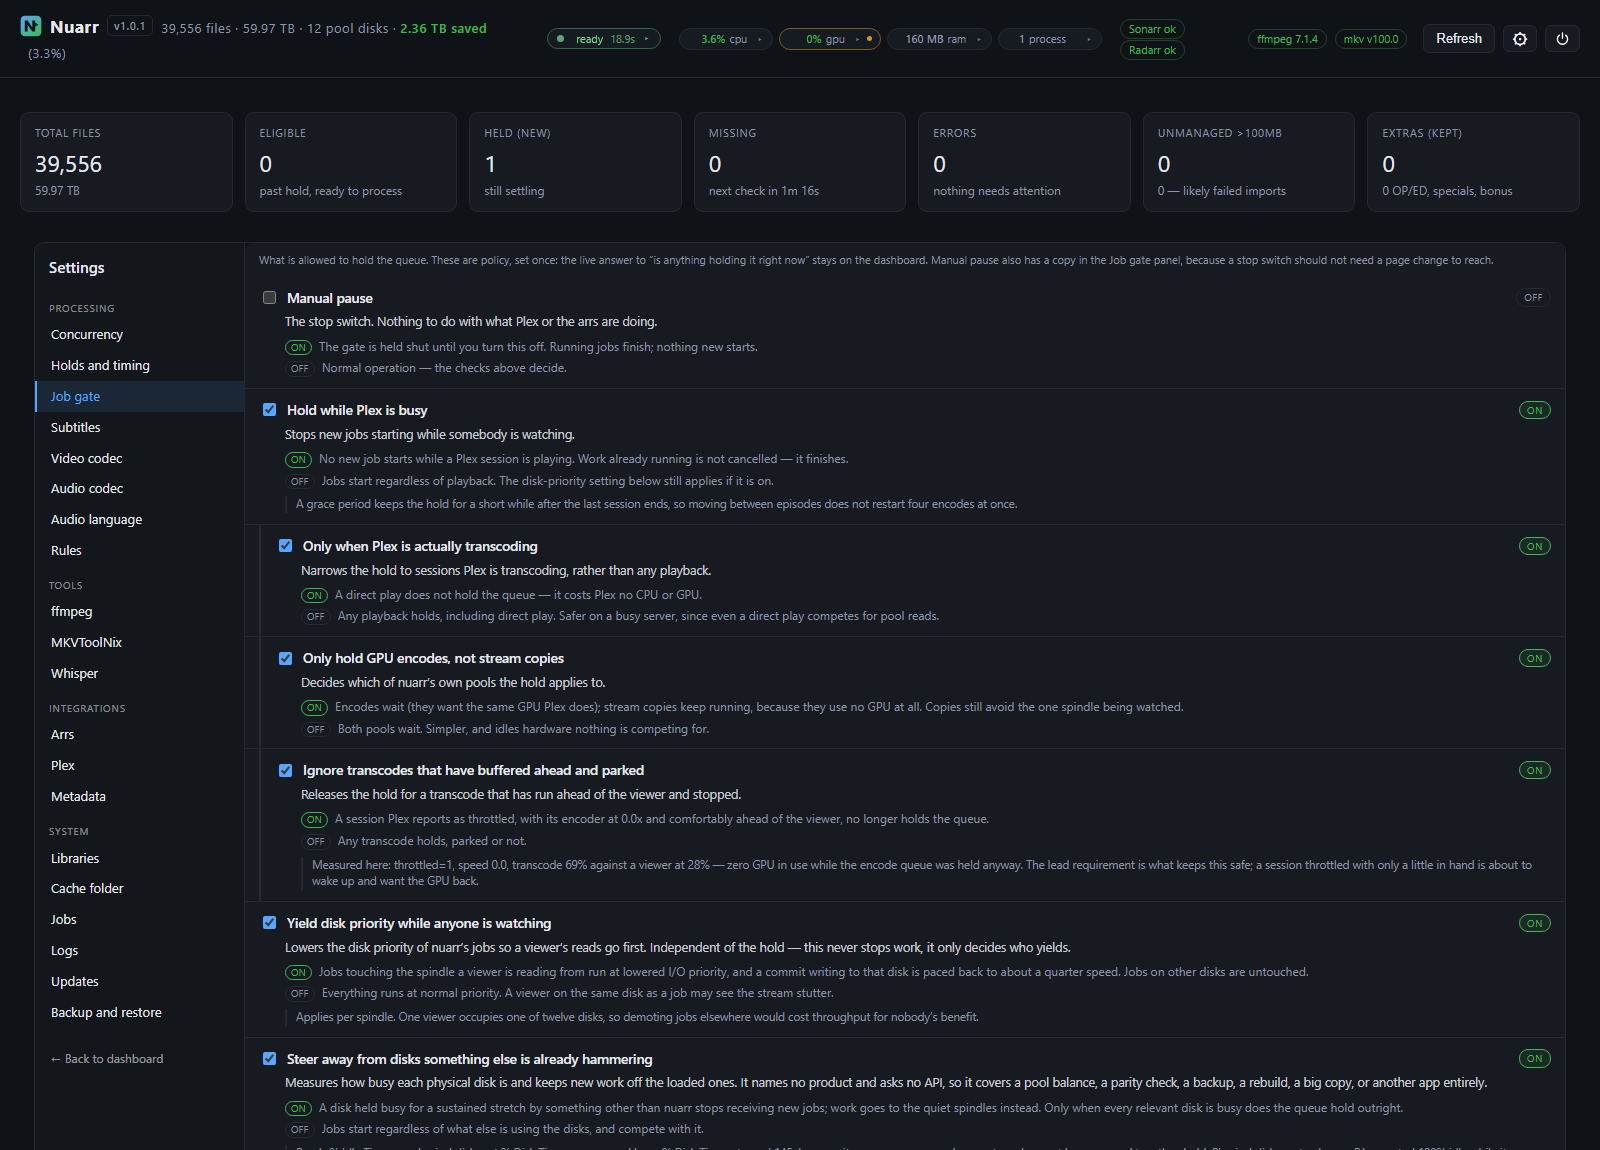
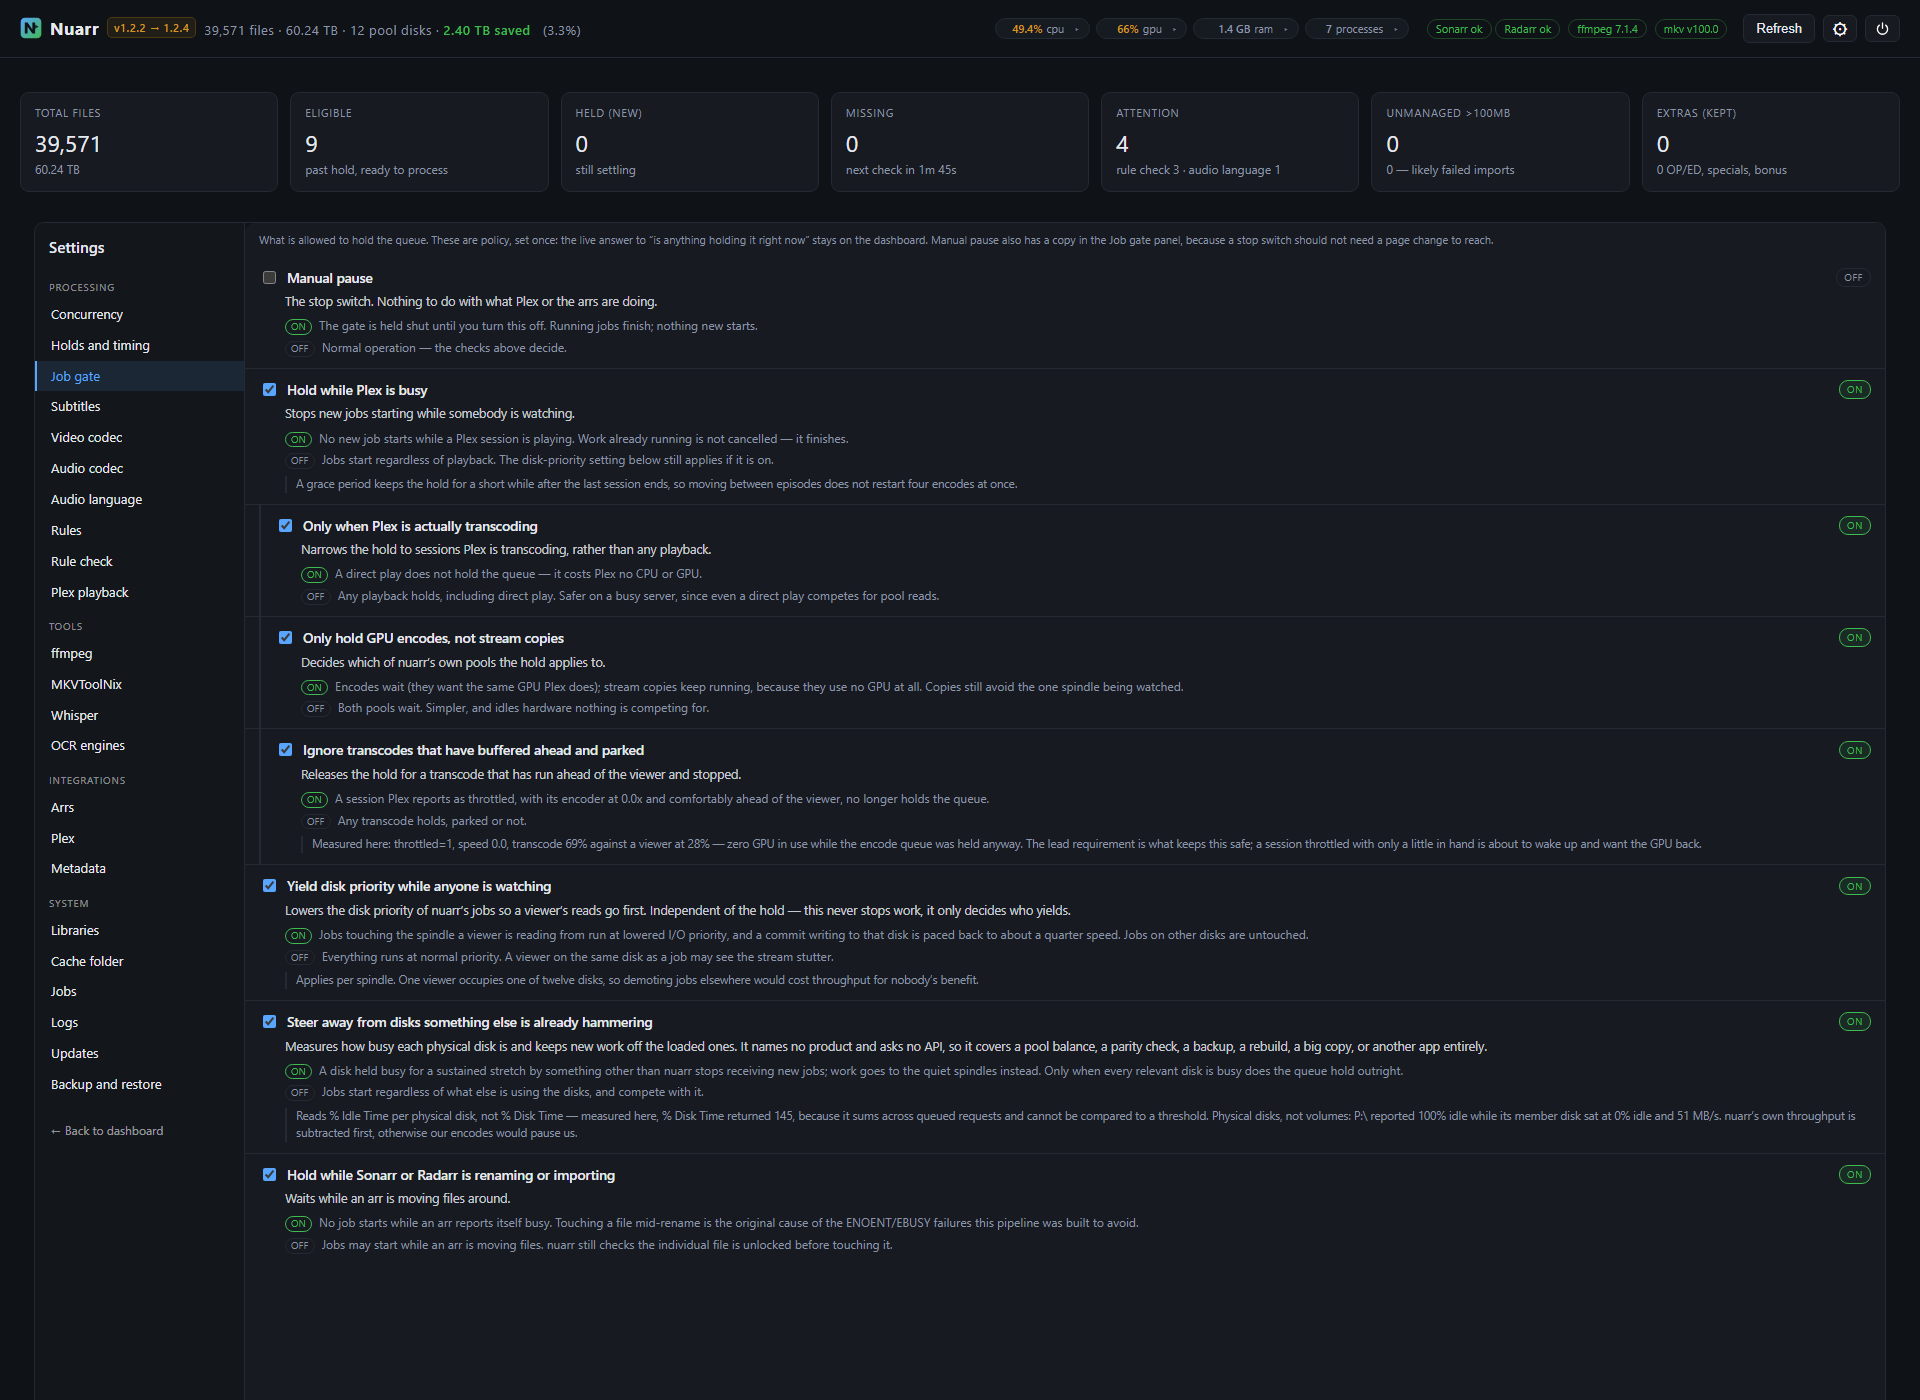
nuarr 1.3.0 - Attention tile aggregates everything needing a human; Rule check and Plex playback become settings pages; release notes per OCR component; fresh screenshots

diff --git a/app/_panes_extracted.html b/app/_panes_extracted.html
@@ -249,6 +249,25 @@
           <div class="dim" style="padding:14px">loading&hellip;</div>
         </div>
       </div>
+      <div id="plexworkPane" style="display:none">
+        <div class="dim" style="padding:9px 14px;font-size:11px">
+          The only page that reports whether the standardising <b>worked</b>:
+          every time Plex had to rebuild something at playback instead of
+          direct-playing it, with the track and codec that caused it. One hit
+          from an unusual client is normal; the same file across several
+          clients is a rule worth adding.
+        </div>
+        <div id="plexworkBody" style="padding:0 14px 14px"></div>
+      </div>
+      <div id="ruleschkPane" style="display:none">
+        <div class="dim" style="padding:9px 14px;font-size:11px">
+          The nightly conformance check: does the library still match its own
+          rules? A finding is queued, fixed and re-verified on its own -
+          this page is where you see that happening, and where anything
+          still broken is named.
+        </div>
+        <div id="ruleschkBody" style="padding:0 14px 14px"></div>
+      </div>
       <div id="updPane" style="display:none">
   <div class="dim" style="padding:9px 14px;font-size:11px">
     Which nuarr this is, and whether there is a newer one. Checking is

diff --git a/app/web.py b/app/web.py
@@ -2399,8 +2399,44 @@ def _summary_impl():
         "  FROM jobs WHERE state='done' "
         "   AND size_before IS NOT NULL AND size_after IS NOT NULL")[0]
     saved["net"] = (saved["before_b"] or 0) - (saved["after_b"] or 0)
+    # EVERYTHING THAT NEEDS A HUMAN, in one list, for the Attention tile.
+    # The file-error count was the tile's whole story, which meant "0 -
+    # nothing needs attention" while the rule check held three still-broken
+    # files and the audio page had unresolved tracks. Each entry names its
+    # source and where to go; each source is a cheap read, because this rides
+    # the stats poll.
+    attention: list[dict] = []
+    if errors.get("n"):
+        attention.append({"what": "file errors", "n": int(errors["n"]),
+                          "goto": "errors"})
+    try:
+        arow = _rows("SELECT pending FROM audit_runs "
+                     "ORDER BY at DESC LIMIT 1")
+        if arow and arow[0]["pending"]:
+            attention.append({"what": "rule check", "n": int(arow[0]["pending"]),
+                              "note": "still breaking a rule",
+                              "goto": "/settings#ruleschk"})
+    except Exception:                                    # noqa: BLE001
+        pass
+    try:
+        al = _rows("SELECT COUNT(*) n FROM audio_lang "
+                   "WHERE COALESCE(code,'')=''")
+        if al and al[0]["n"]:
+            attention.append({"what": "audio language", "n": int(al[0]["n"]),
+                              "note": "listened, no confident answer",
+                              "goto": "/settings#alang"})
+    except Exception:                                    # noqa: BLE001
+        pass
+    try:
+        st = arrhealth.STATE
+        if st.get("warnings"):
+            attention.append({"what": "arr health", "n": int(st["warnings"]),
+                              "note": "warnings on Sonarr/Radarr",
+                              "goto": "/settings#arrs"})
+    except Exception:                                    # noqa: BLE001
+        pass
     return {"states": states, "disks": disks, "libraries": libs,
-            "saved": saved,
+            "saved": saved, "attention": attention,
             "errors": errors, "error_kinds": err_kinds,
             "totals": totals, "orphans": orphans, "extras": extras,
             "extras_cutoff_mb": SETTINGS.min_orphan_size_mb,
@@ -4262,6 +4298,13 @@ def api_ocr_updates():
             "tess_install": dict(_so.TESS_INSTALL),
             "pgsrip_install": dict(_so._INSTALL),
             "paddle_install": dict(_so.PADDLE_INSTALL)}
+
+
+@app.get("/api/ocr/changelog")
+async def api_ocr_changelog(which: str = Query(...), since: str = Query("")):
+    """Release notes newer than the installed version, from upstream."""
+    from . import subocr as _so
+    return await asyncio.to_thread(_so.changelog, which, since)
 
 
 @app.post("/api/ocr/updates/check")
@@ -9174,17 +9217,17 @@ input[type=time]::-webkit-calendar-picker-indicator{filter:invert(.75);cursor:po
     <div id="cmqHead" style="display:none"></div>
     <div id="cmq" class="scrollbox auto nohz"></div>
   </div>
-  <!-- What Plex actually did. Everything else in this dashboard reports what
-       nuarr decided; this is the only panel that reports whether it worked. -->
-  <div class="panel">
+  <!-- What Plex actually did, and the nightly rule check. MOVED to Settings
+       as their own pages - these wrappers stay only as the DOM home the
+       settings panes adopt the contents from, hidden on the dashboard. -->
+  <div class="panel" id="pbPanel" style="display:none">
     <h2 style="color:#f778ba">What Plex had to work at
         <span id="pbCount" class="dim"></span>
         <span style="float:right;font-weight:400">
           <button onclick="pbPoll()">Check now</button></span></h2>
     <div id="pb"><div class="dim" style="padding:14px">loading…</div></div>
   </div>
-  <!-- Nightly conformance check: does the library match its own rules? -->
-  <div class="panel">
+  <div class="panel" id="auPanel" style="display:none">
     <h2 style="color:#39d3c3">Rule check <span id="auCount" class="dim"></span>
         <span style="float:right;font-weight:400">
           <button onclick="auRun()">Run now</button></span></h2>
@@ -9417,9 +9460,16 @@ async function loadAll(){
                 `${fmt(mh.checking)} more being re-checked`,
                 'confirmed after 3 checks'),
       {state:'missing',t:'Missing'});
-  const eTop=(s.error_kinds&&s.error_kinds[0])
-    ? esc(s.error_kinds[0].r).slice(0,44) : 'nothing needs attention';
-  add('Errors',fmt(s.errors.n),eTop,{errors:1,t:'Errors — needs attention'});
+  // ATTENTION, NOT JUST ERRORS. The tile counted file errors and said
+  // "nothing needs attention" while the rule check held broken files and the
+  // audio page had unresolved tracks. It now sums every source the server
+  // flags and names the loudest one.
+  const att=s.attention||[];
+  const attN=att.reduce((t,a)=>t+(a.n||0),0);
+  const attTop=att.length
+    ? esc(att.map(a=>`${a.what} ${fmt(a.n)}`).join(' · ')).slice(0,64)
+    : 'nothing needs attention';
+  add('Attention',fmt(attN),attTop,{errors:1,t:'Needs attention'});
   const ua = s.unmanaged_adopt || {checking:0, no_folder:0};
   add('Unmanaged &gt;'+s.extras_cutoff_mb+'MB',fmt(s.orphans.n),
       sweepNote(s.unmanaged_sweep, ua.checking,
@@ -16172,7 +16222,7 @@ function wtab(which){
                    vcodec:'vcodecPane', acodec:'acodecPane',
                    alang:'alangPane', cache:'cachePane',
                    whisper:'whisperPane', plex:'plexPane',
-                   ocr:'ocrPane',
+                   ocr:'ocrPane', plexwork:'plexworkPane', ruleschk:'ruleschkPane',
                    updates:'updPane'};
   const isPane = Object.prototype.hasOwnProperty.call(PANE_OF, which);
   const set = document.getElementById('wSettings');
@@ -16217,6 +16267,29 @@ function wtab(which){
   if(which==='updates'){
     if(hint) hint.textContent='· updates';
     loadUpdates(0);      // 0: use the cache. The Check now button forces it.
+    return;
+  }
+  if(which==='plexwork'){
+    if(hint) hint.textContent='· plex playback';
+    // ADOPT the dashboard panel's content node: the loaders target #pb by
+    // id, the poll cycle keeps refreshing it, and moving the node means one
+    // implementation lives in one place instead of two drifting copies.
+    const host=document.getElementById('plexworkBody');
+    const panel=document.getElementById('pbPanel');
+    if(host&&panel&&panel.firstElementChild){
+      while(panel.firstChild) host.appendChild(panel.firstChild);
+    }
+    loadPlayback();
+    return;
+  }
+  if(which==='ruleschk'){
+    if(hint) hint.textContent='· rule check';
+    const host=document.getElementById('ruleschkBody');
+    const panel=document.getElementById('auPanel');
+    if(host&&panel&&panel.firstElementChild){
+      while(panel.firstChild) host.appendChild(panel.firstChild);
+    }
+    loadAudit();
     return;
   }
   if(which==='ocr'){
@@ -17888,7 +17961,6 @@ async function loadOcr(){
       ${(!padReady||!p.cuda)?`<button onclick="padInstall('gpu')" ${hasGpu?'style="color:var(--acc)"':''}
           >Install — GPU${hasGpu?` (${esc(p.gpu_name)})`:''}</button>`:''}
       ${!padReady?`<button onclick="padInstall('cpu')">Install — CPU only</button>`:''}
-      ${padReady?`<button onclick="padInstall('update')">Update PaddleOCR</button>`:''}
       ${inst.state==='error'?`<span style="color:#e0575b;font-size:11px">${esc(inst.error||'')}</span>`:''}
       ${inst.state==='done'?`<span style="color:#7fd4a3;font-size:11px">done</span>`:''}
     </div>`;
@@ -18042,8 +18114,11 @@ async function ocrUpdLoad(){
                  border-top:1px solid var(--line);font-size:12px">
       <b style="width:110px">${label}</b>
       <span class="mono dim" style="width:130px">${esc(x.installed||'—')}</span>
+      ${x.installed?`<a href="#" onclick="ocrChanges('${key}','${esc(x.installed)}');return false"
+        class="dim" style="font-size:11px">what changed</a>`:''}
       <span style="margin-left:auto;display:flex;align-items:center;gap:4px">${right}</span>
-    </div>`;
+    </div>
+    <div id="ocrChg_${key}" style="display:none"></div>`;
   };
   const when=u.at?new Date(u.at*1000).toLocaleString():'';
   el.innerHTML=
@@ -18054,6 +18129,33 @@ async function ocrUpdLoad(){
   if(Object.values(busyOf).some(b=>b.state==='installing'))
     setTimeout(ocrUpdLoad, 4000);
 }
+// "What changed" - releases newer than what is installed, straight from each
+// project's GitHub. Toggles closed on a second click.
+async function ocrChanges(which,since){
+  const box=document.getElementById('ocrChg_'+which);
+  if(!box) return;
+  if(box.style.display!=='none'){ box.style.display='none'; return; }
+  box.style.display='';
+  box.innerHTML='<div class="dim" style="font-size:11px;padding:4px 0 8px">loading release notes…</div>';
+  let r=null;
+  try{ r=await (await fetch(`/api/ocr/changelog?which=${which}&since=${encodeURIComponent(since)}`)).json(); }catch(e){}
+  if(!r||!r.ok){ box.innerHTML=`<div class="dim" style="font-size:11px;padding:4px 0 8px">could not load — <a href="https://github.com" target="_blank" rel="noopener">see upstream</a></div>`; return; }
+  if(!(r.releases||[]).length){
+    box.innerHTML=`<div class="dim" style="font-size:11px;padding:4px 0 8px">
+      nothing newer than ${esc(since)} has release notes —
+      <a href="${esc(r.url)}" target="_blank" rel="noopener">all releases</a></div>`;
+    return;
+  }
+  box.innerHTML=r.releases.map(rel=>`
+    <div style="padding:5px 0 7px 12px;border-left:2px solid var(--line);margin:4px 0">
+      <b style="font-size:12px">${esc(rel.name)}</b>
+      <span class="dim" style="font-size:10.5px">${esc(rel.date)}</span>
+      <div class="dim" style="font-size:11px;white-space:pre-wrap;max-height:140px;overflow:auto">${esc(rel.body||'(no notes)')}</div>
+    </div>`).join('')
+    +`<div style="padding:2px 0 8px"><a href="${esc(r.url)}" target="_blank" rel="noopener"
+       class="dim" style="font-size:10.5px">all releases</a></div>`;
+}
+
 async function ocrUpdCheck(btn){
   btn.disabled=true; const old=btn.textContent; btn.textContent='checking…';
   try{ await fetch('/api/ocr/updates/check',{method:'POST'}); }catch(e){}
@@ -20555,7 +20657,9 @@ _SETTINGS_NAV = [
                     ("vcodec", "Video codec",      "film"),
                     ("acodec", "Audio codec",      "sliders"),
                     ("alang",  "Audio language",   "language"),
-                    ("rules",  "Rules",            "list")]),
+                    ("rules",  "Rules",            "list"),
+                    ("ruleschk", "Rule check",     "list"),
+                    ("plexwork", "Plex playback",  "play")]),
     ("Tools",      [("ffmpeg",  "ffmpeg",          "film"),
                     ("mkv",     "MKVToolNix",      "tool"),
                     ("whisper", "Whisper",         "language"),

diff --git a/app/subocr.py b/app/subocr.py
@@ -1776,6 +1776,55 @@ def tesseract_update_start(target_version: str = "") -> dict:
     return {"ok": True, "version": v}
 
 
+_CHANGELOG_REPOS = {
+    "tesseract": "UB-Mannheim/tesseract",
+    "pgsrip": "ratoaq2/pgsrip",
+    "paddleocr": "PaddlePaddle/PaddleOCR",
+}
+
+
+def changelog(which: str, since: str = "") -> dict:
+    """What changed between the installed version and now, from upstream.
+
+    Straight from each project's GitHub releases: title, date and body per
+    release newer than `since`, capped so a project that writes essays does
+    not flood the card. Answering "should I press Update" is the whole job.
+    """
+    import urllib.request
+    repo = _CHANGELOG_REPOS.get(which)
+    if not repo:
+        return {"ok": False, "error": "unknown component"}
+    try:
+        req = urllib.request.Request(
+            f"https://api.github.com/repos/{repo}/releases?per_page=10",
+            headers={"User-Agent": "nuarr",
+                     "Accept": "application/vnd.github+json"})
+        with urllib.request.urlopen(req, timeout=20) as r:
+            rels = json.loads(r.read().decode("utf-8"))
+        out = []
+        cur = [int(x) for x in re.findall(r"\d+", since or "")][:4]
+        for rel in rels or []:
+            if rel.get("draft"):
+                continue
+            tag = str(rel.get("tag_name") or "")
+            ver = [int(x) for x in re.findall(r"\d+", tag)][:4]
+            if cur and ver and ver <= cur:
+                continue                 # already running this one
+            body = (rel.get("body") or "").strip()
+            if len(body) > 1200:
+                body = body[:1200] + "…"
+            out.append({"tag": tag, "name": rel.get("name") or tag,
+                        "date": (rel.get("published_at") or "")[:10],
+                        "body": body,
+                        "url": rel.get("html_url") or ""})
+            if len(out) >= 5:
+                break
+        return {"ok": True, "which": which, "since": since, "releases": out,
+                "url": f"https://github.com/{repo}/releases"}
+    except Exception as e:                               # noqa: BLE001
+        return {"ok": False, "error": f"{type(e).__name__}: {str(e)[:120]}"}
+
+
 async def updates_watch() -> None:
     """Once a day, ask upstream about all three - the Jobs page row."""
     import asyncio

diff --git a/app/version.py b/app/version.py
@@ -22,7 +22,7 @@ import re
 #         setting that moved, anything that could surprise an existing install)
 # minor - a new capability
 # patch - a fix to something that was already meant to work
-VERSION = "1.2.4"
+VERSION = "1.3.0"
 
 # Filled in when a bundle is built, so a running install can say not just what
 # it is but when it was made. Left empty in a source checkout on purpose - an
